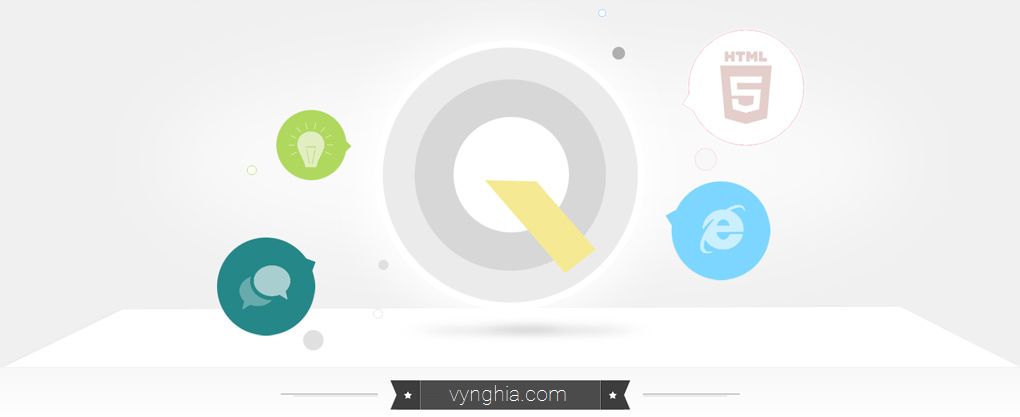
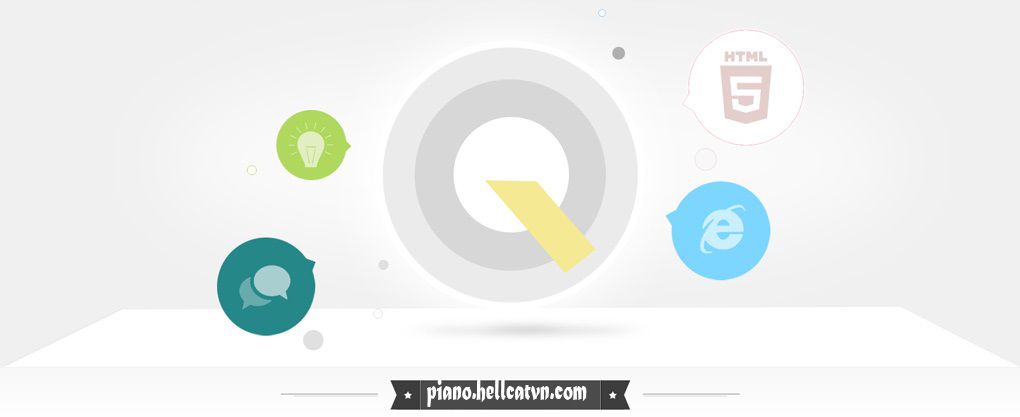
something change

Changed region(s): [[0.3951, 0.9041, 0.5775, 0.9664], [0.4863, 0.4053, 0.5167, 0.4365]]

diff --git a/js/piano.js b/js/piano.js
@@ -649,9 +649,11 @@ $(function(){
 		"Limited Love":"5555345706666465055557654044443210888856888809999876077777890507789878",
 		"Hồ Lô Biến ✪":"1130113066656513086656051207535",
 		"Ước Muốn":"3230321556503566666350366656685556312223212032303215565035666663503666566855531012223211018888986563012012320188898656805605689",
-		"Người Yêu Cũ":"55550565403678750556112350545312055550565403678750556112350543211",
+		"Big Big World":"1233303422202311101232102333402222301322",
+		"Happy BirthDay":"556587055659805538760443124",
 		"Kỷ niệm":"111543212330135666876545566687655321023434211023434311|羽毛公主|http:\/\/bbs.360safe.com\/forum.php?mod=redirect&goto=findpost&ptid=1969236&pid=13529820",
 		"Gấu & Búp Bê":"1023455543444321351023455543444321316066545554344432135606654555434044321031|wangsongha1986lzq|http:\/\/bbs.360safe.com\/forum.php?mod=redirect&goto=findpost&ptid=1969236&pid=13527397"
+
 	};
 
 

diff --git a/index.html b/index.html
@@ -140,7 +140,7 @@
 
     <footer id="footer">
     	<div class="foot_gradient"></div>
-    	<div id="foot"><span> &copy; 2017 Vy Nghia Edited 
+    	<div id="foot"><span> &copy; 2017 HellCatVN Edited
     </span></div></footer>
     <!-- #footer -->
 </div>
